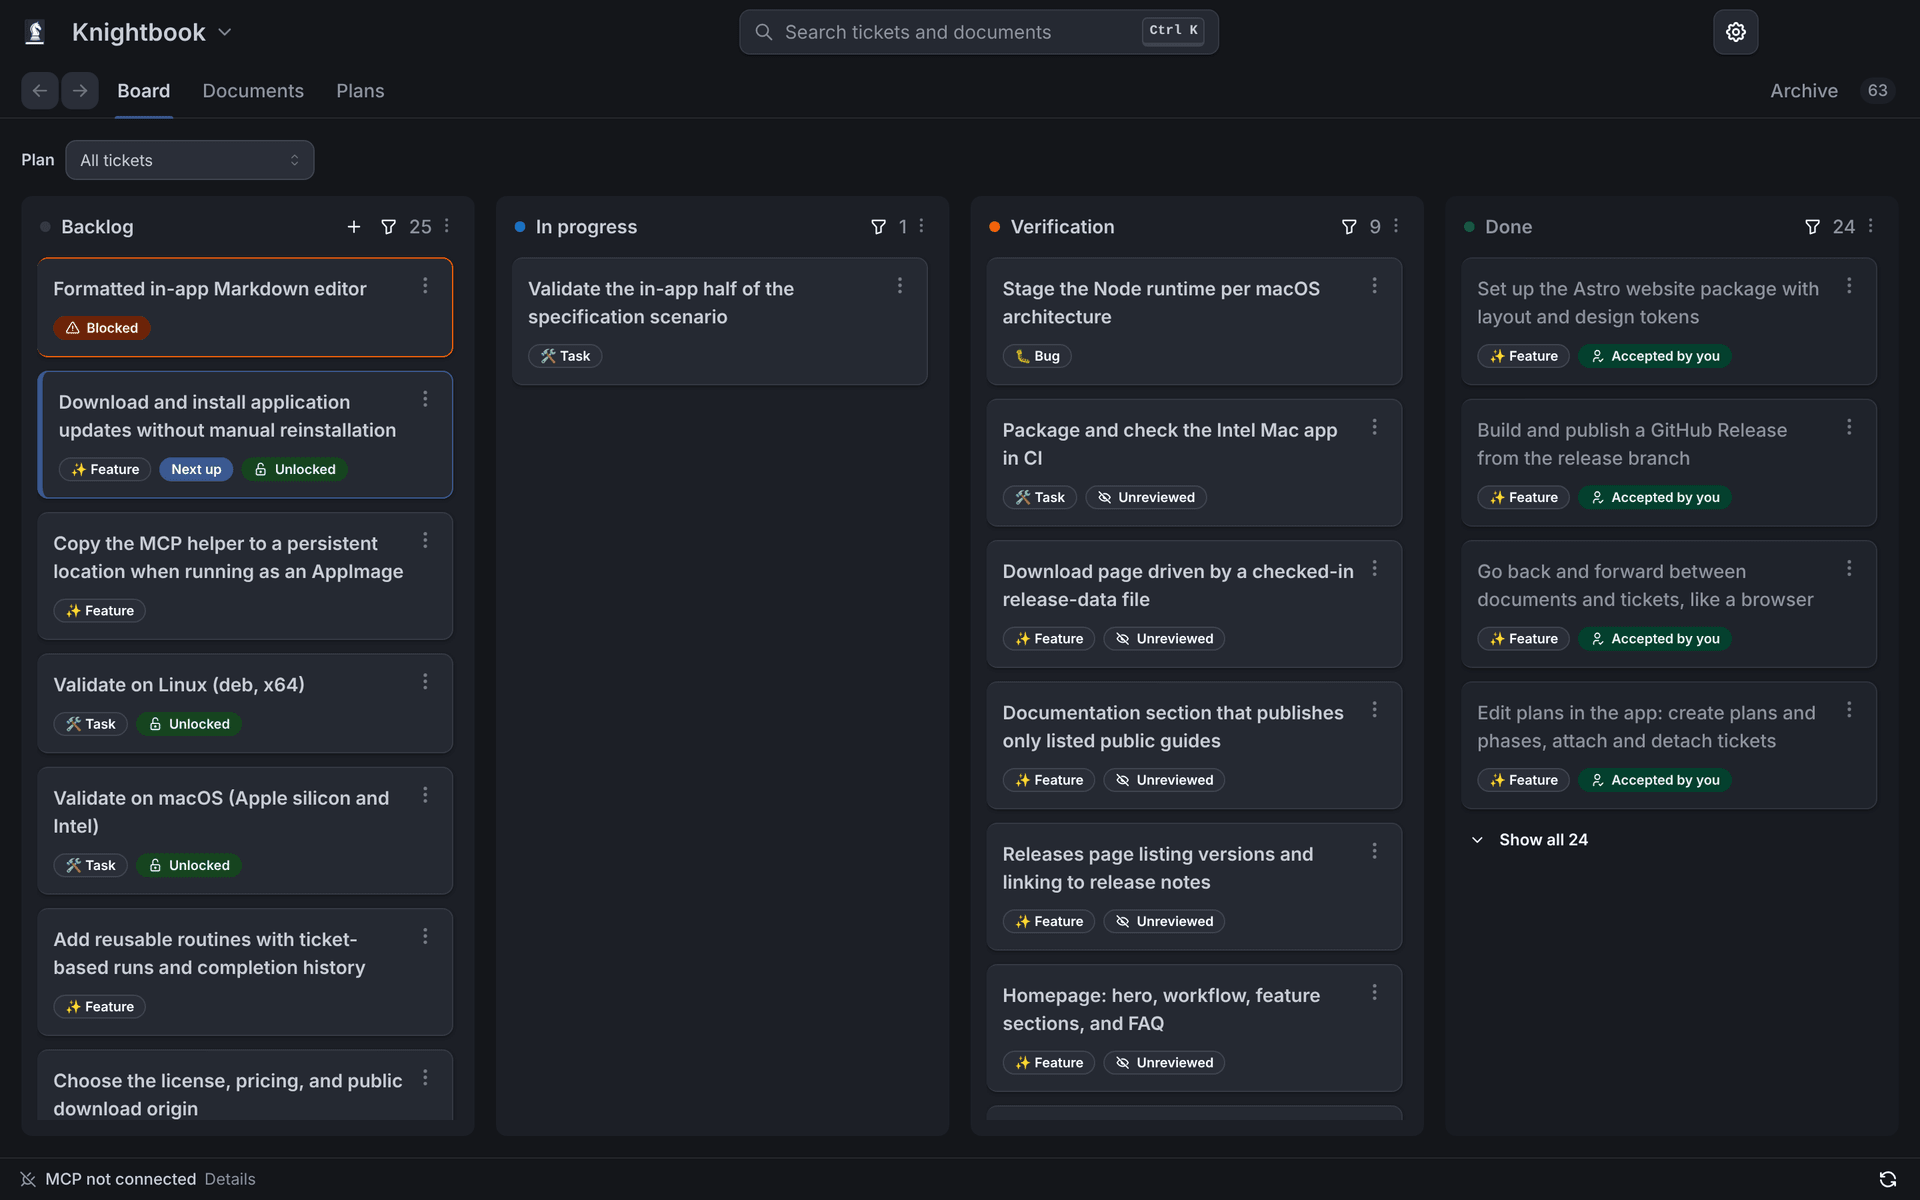
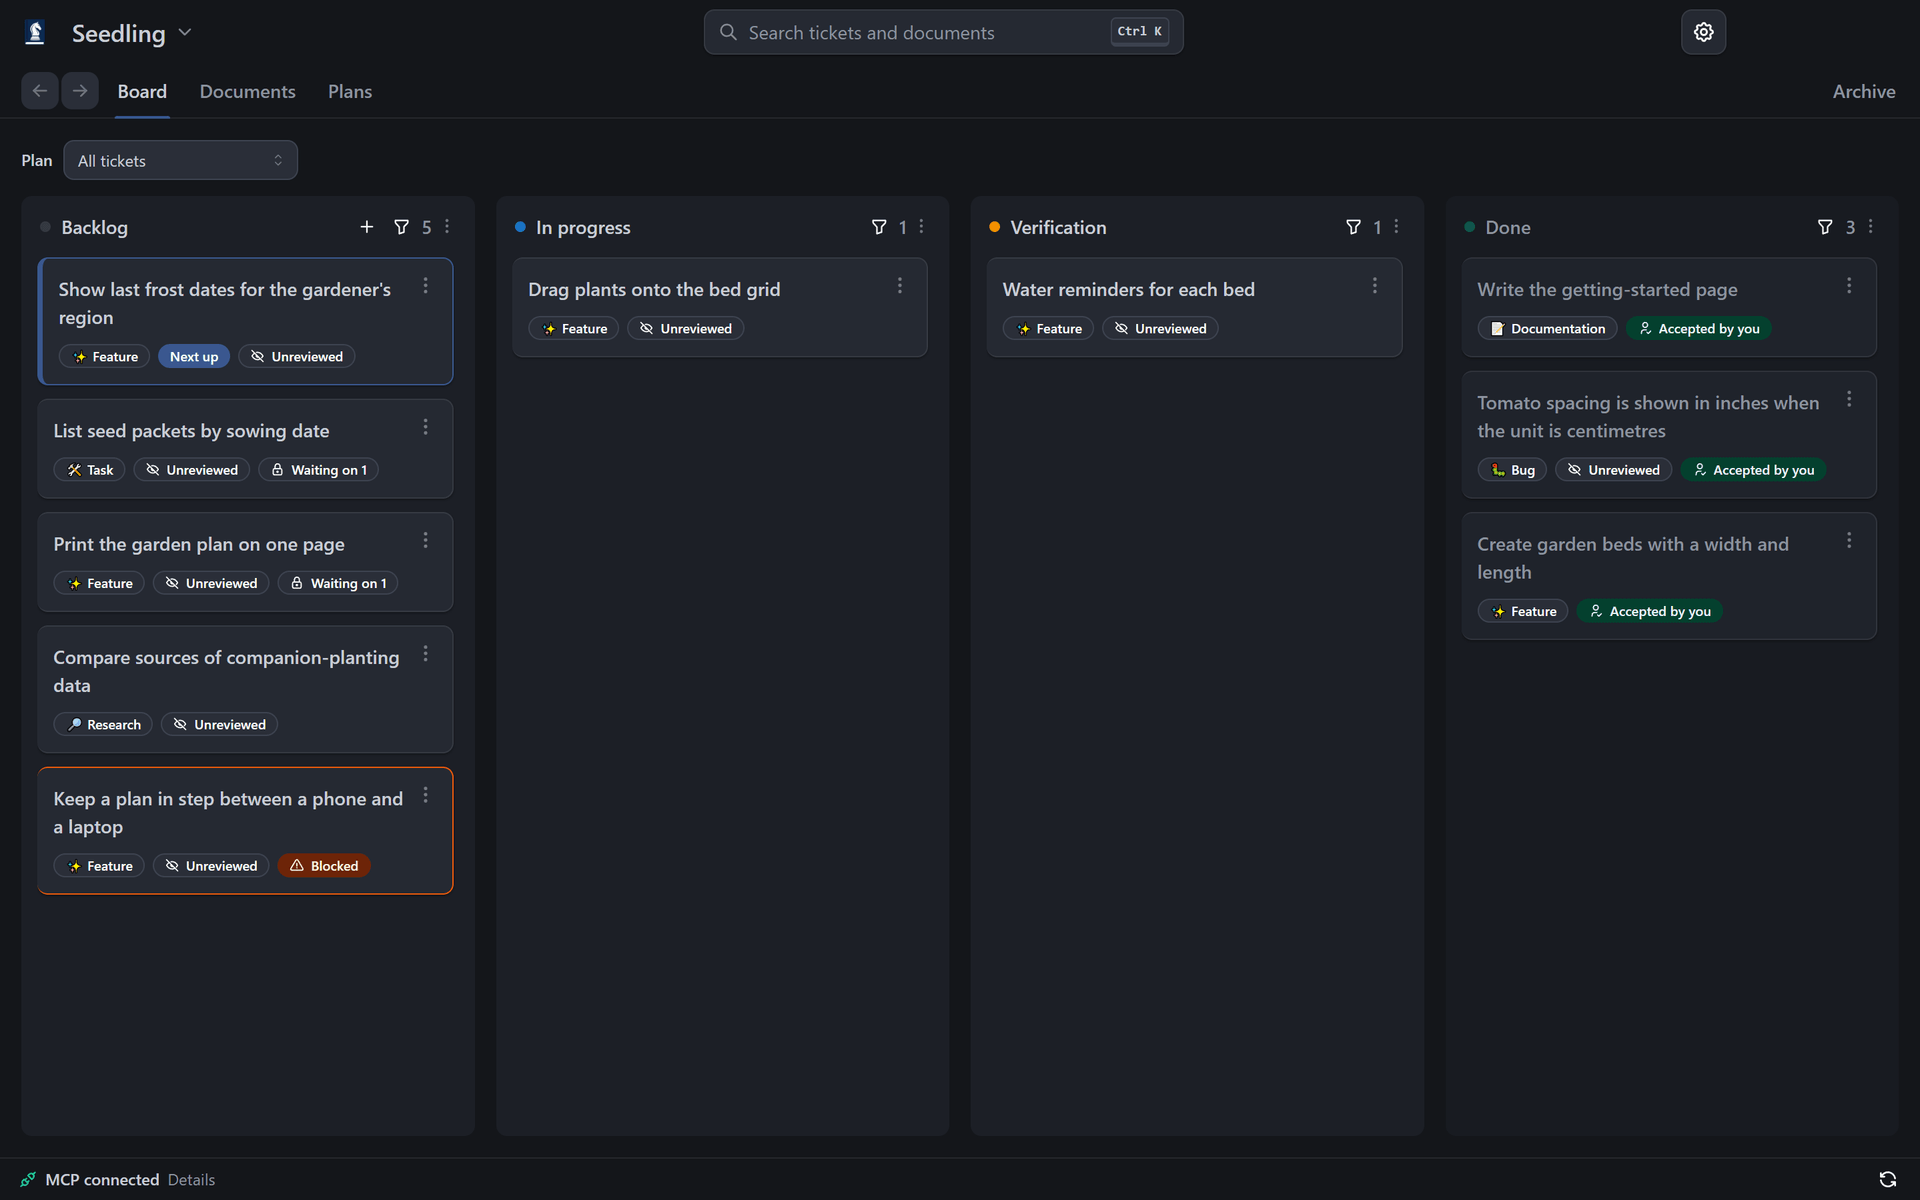
docs: replace homepage screenshots with the Seedling sample project (#18)

diff --git a/apps/website/src/home/home.test.ts b/apps/website/src/home/home.test.ts
@@ -175,7 +175,7 @@ describe('the homepage', () => {
     const files = visibleText(section(homes.noRelease, 'files-title'))
     expect(files).toMatch(/ordinary Markdown files in your project folder/)
     expect(files).toMatch(/edit it in the editor you already use/)
-    expect(section(homes.noRelease, 'files-title')).toContain('data-draft="documentScreenshot"')
+    expect(section(homes.noRelease, 'files-title')).not.toContain('data-draft=')
     expect(section(homes.noRelease, 'files-title')).toMatch(/<img[^>]+alt="The Documents view/)
     const shared = visibleText(section(homes.noRelease, 'shared-title'))
     expect(shared).toMatch(/context the last one left behind/)
@@ -328,7 +328,11 @@ describe('the homepage', () => {
   it('refuses a production build while drafts remain, naming every one', async () => {
     const env: NodeJS.ProcessEnv = { ...process.env, KNIGHTBOOK_SITE_STAGE: 'production' }
     delete env.KNIGHTBOOK_RELEASE_DATA_FOR_TESTS
-    const failure = await build(join(workDir, 'production'), env).catch((error) => error)
+    const failure = await build(join(workDir, 'production'), env).then(
+      () => null,
+      (error) => error,
+    )
+    if (Object.keys(DRAFTS).length === 0) return expect(failure).toBeNull()
     expect(failure).toBeInstanceOf(Error)
     for (const id of Object.keys(DRAFTS)) expect(failure.stderr, id).toContain(`${id}: `)
   }, 120_000)

diff --git a/apps/website/src/home/drafts.ts b/apps/website/src/home/drafts.ts
@@ -7,12 +7,7 @@
  * build while any remain, and names every one, so a placeholder can never be
  * published as if it were the product. Remove an entry once its place is real.
  */
-export const DRAFTS = {
-  boardScreenshot:
-    "Interim board screenshot of Knightbook's own project; replace with a fictional sample project (ticket 90c7aba5)",
-  documentScreenshot:
-    "Interim document screenshot of Knightbook's own project; replace with a fictional sample project (ticket 90c7aba5)",
-} as const
+export const DRAFTS = {} as const
 
 export type DraftId = keyof typeof DRAFTS
 
